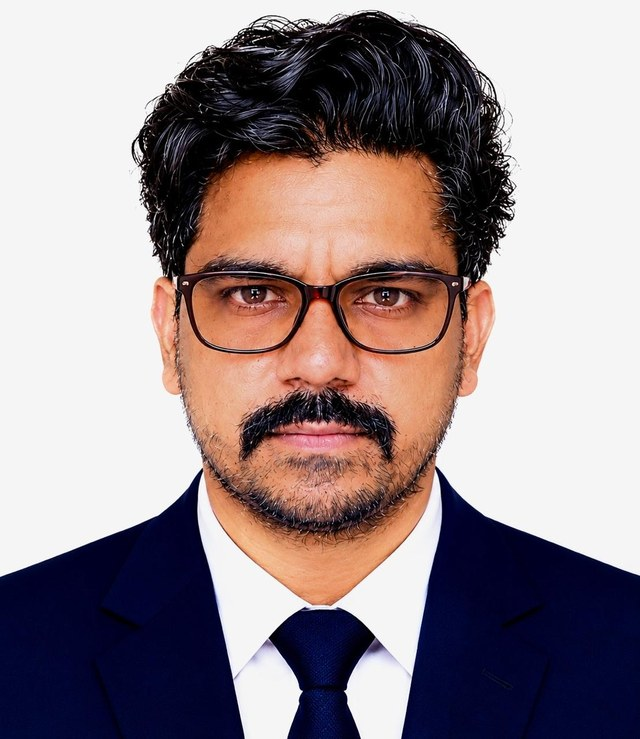
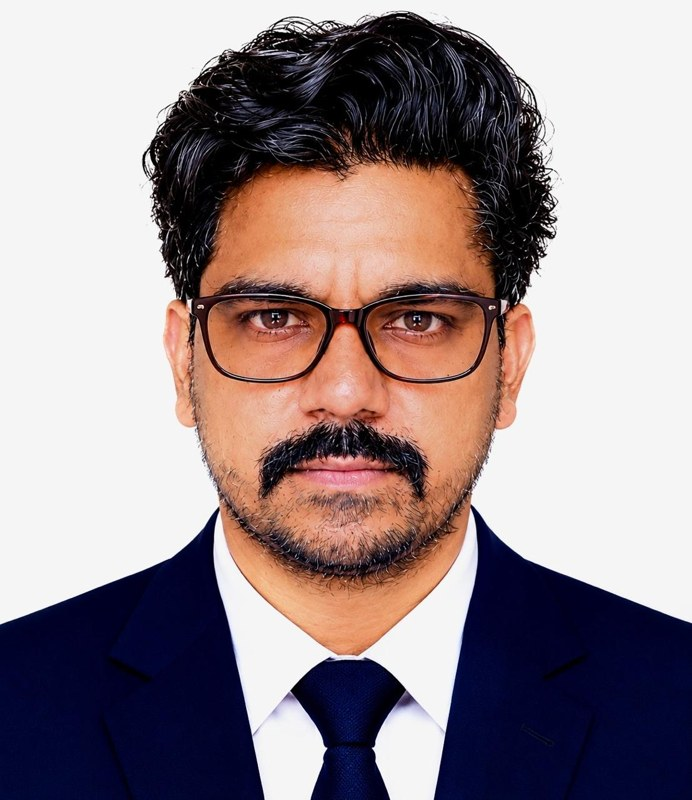
Crop certification title, higher-res founder photos, fix founder name

diff --git a/index.html b/index.html
@@ -37,7 +37,7 @@ footer .logo{width:110px;height:110px}
 .cert-card{grid-column:span 2}
 @media(max-width:900px){.biz-grid{grid-template-columns:repeat(2,1fr)}}
 @media(max-width:600px){.biz-grid{grid-template-columns:1fr}.cert-card{grid-column:auto}}
-.cert-card{display:flex;flex-direction:column;justify-content:center;gap:1rem;padding:1.25rem}
+.cert-card{grid-column:span 2;display:flex;flex-direction:column;justify-content:center;gap:1rem;padding:1.25rem}
 .cert-card img{display:block;width:100%;height:auto;object-fit:contain}
 .fgallery figure{margin:0;background:var(--white);border:1px solid var(--line);border-bottom:3px solid var(--gold)}
 .fgallery figure a{border:0;display:block}
@@ -323,14 +323,14 @@ footer a:hover{color:var(--gold)}
     <p class="lead">Expertise across legal matters, land and property, finance, precious metals and international export management.</p>
     <div class="people">
       <article class="person">
-        <img class="photo" src="images/bharat-simpy.jpg" alt="Bharat Simpy, Founder" width="180" height="210" loading="lazy">
+        <img class="photo" src="images/bharat-simpy.jpg" alt="Bharat Simpy, Founder" width="700" height="800" loading="lazy">
         <h3>Bharat Simpy</h3>
         <p class="role">Founder</p>
         <ul><li>Legal matters and advisory</li><li>Land and property management</li><li>Finance and business development</li></ul>
         <div class="yrs"><b>40+</b><span>years of professional working experience</span></div>
       </article>
       <article class="person">
-        <img class="photo" src="images/aryankumar-verma.jpg" alt="Dr. Aryankumar Verma" width="180" height="210" loading="lazy">
+        <img class="photo" src="images/aryankumar-verma.jpg" alt="Dr. Aryankumar Verma" width="700" height="800" loading="lazy">
         <h3>Dr. Aryankumar Verma</h3>
         <p class="role">Metallurgy / Business Management</p>
         <p class="deg">Ph.D. Scholar, Business Management</p>
